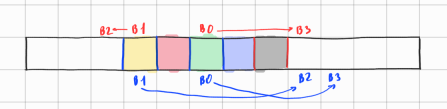
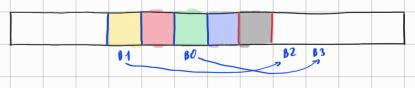
Caterpillar algo rus doc update

diff --git a/4. Практическая реализация flash-friendly Block DB в Phraser - Алгоритм Гусеницы.md b/4. Практическая реализация flash-friendly Block DB в Phraser - Алгоритм Гусеницы.md
@@ -130,57 +130,26 @@ append-only, никогда не перезаписывая данные in-plac
 ### 
 #### 3.1.2 CREATE / UPDATE / DELETE
 
-Концептуально, мы выполняем следующую последовательность действий: 
-1. Формируем *Обновленный блок*.
-2. Находим Block numbers `B1`, `B2` и `B3`.
-3. Получаем инкрементированную версию, **V1**.
-4. Читаем блок на позиции `B1`, без изменения контента обновляем ему версию до **V1**, и сохраняем его новую копию в `B2`.
-5. Получаем еще одну инкрементированную версию, **V2**.
-6. Сохраняем *Обновленный блок* на позицию `B3` с версией **V2**.
+Для модификации данных мы выполняем следующую последовательность действий: 
+1. Формируем *Обновленный блок*
+2. Если в БД недостаточно *Свободных блоков* (`UPDATE`/`DELETE` < 1 блок, `CREATE` < 2 блоков) 
+   - освобождаем Tombstone-блоки
+3. Находим Block numbers `B1`, `B2` и `B3` (см. `#3.3.1`)
+4. Получаем инкрементированную версию, **V1**
+5. Читаем блок на позиции `B1`, без изменения контента обновляем ему версию до **V1**, и сохраняем его новую копию в `B2` (`Throwback copy`)
+6. Если операция `CREATE` 
+   - освобождаем Tombstone-блоки еще раз, на случай ситуации `tombstoned block with 2 copies` (см. `#3.3.4`)
+   - Обновляем индексы для `B2` (см. `#3.3.3`)
+7. Получаем еще одну инкрементированную версию, **V2**
+8. Сохраняем *Обновленный блок* на позицию `B3` с версией **V2**
+   - Обновляем индексы для `B3` (см. `#3.3.3`)
 
-В приведенном выше описании, шаги 3 и 4 представляют собой то, что мы называем комплементарным копированием (Throwback copy).  
-
-### 
-#### 3.1.3 Вычисление `B1`, `B2` и `B3`
-
-- `B1` - Находим ближайший *Занятый блок* - *Справа* от *Последнего блока*
-- `B2` - Находим ближайший *Свободный блок* - *Слева* от *Последнего блока*
-- `B3` 
-  - В большинстве случаев за `B3` мы берем блок *Непосредственно справа* от *Последнего блока*,как показано на следующем рисунке  
-![Copy positions.png](Copy%20positions.png)
-
-  - За исключением ситуации, при которой вычисленный `B2` более близок справа к *Последнему блоку*, чем `B1`. 
-  Если использовать вычисленные номера блоков, то часть гусеницы поползет назад, что нежелательно с точки зрения 
-  равномерности распределения.  
-  Корректируем данную ситуацию следующим образом: 
-    - `B2` = блок *Непосредственно справа* от *Последнего блока*
-    - `B3` = блок *Непосредственно справа* от `B2`
-    - см. рисунок ниже, вычисленные "красные" позиции исправляются на "синие"   
-![Copy positions update.png](Copy%20positions%20update.png)
-
-
-- Throwback-копирование при *Полной БД*
-  - Если *БД полная*, то всегда `B1` = `B3`  
-![Copy when DB full.png](Copy%20when%20DB%20full.png)
-
-
-- Afterthought 1:
-  - Возможно, будет еще лучше для равномерного распределения, если изначально взглянуть на следующие блоки:
-    - `R1` - блок *Непосредственно справа* от *Последнего блока*
-    - `R2` - блок *Непосредственно справа* от `R1`
-  - и всегда, когда `R1` и `R2` свободны, использовать их как `B2` и `B3`, и fallback на текущий метод только в том 
-  случае, когда один или оба этих блока заняты.
-  - Тогда в большинстве случаев, за один проход гусеницы по блокам, каждый блок будет записан ровно один раз, что 
-  является идеальным случаем.
-
-- Afterthought 2:
-  - В ситуации, когда `B0` == `B1`, один и тот же блок копируется дважды.
-  - Метод возможно усовершенствовать, с целью чтобы и первая операция копирования приносила пользу.
 
 ### 3.2 Структуры данных в ОЗУ
 
 Для произведения действий, описанных в 3.1 нам нужно поддерживать структуры данных в ОЗУ для того, чтобы эффективно 
-находить BlockNumbers `B1`, `B2`, `B3`. 
+находить BlockNumbers `B1`, `B2`, `B3`.   
+
 Мы опираемся на следующие коллекции:
 - `rb_tree* occupiedBlockNumbers;`
   - Red-Black Tree, содержащая в себе номера *Занятых блоков*. Используется для нахождения `B1` и `B2`. При этом 
@@ -193,6 +162,7 @@ append-only, никогда не перезаписывая данные in-plac
 - `hashtable* tombstonedBlockIds; //key BlockId, value BlockId`
   - Индекс, содержащий BlockId-s с выставленным флагом Tombstoned. 
 
+
 ### 3.3 Детальное описание алгоритма
 
 Опишем Алгоритм Гусеницы более подробно, также включив в описание детали, относящиеся к манипуляции вышеупомянутыми индексами.  
@@ -201,22 +171,41 @@ append-only, никогда не перезаписывая данные in-plac
 
 
 ###
-#### 3.3.1 Использование структур данных в нахождении `B1`, `B2` и `B3`
-Добавим уточняющие комментарии к описанию из #3.1.3.
-
-- `B1` - Находим ближайший *Занятый блок* - *Справа* от *Последнего блока*
+#### 3.3.1 Нахождение `B1`, `B2` и `B3`
+- Для начала вычислим `B1` - ближайший *Занятый блок* - *Справа* от *Последнего блока*
   - > для этого используем `rb_tree* occupiedBlockNumbers` (O(log(N))
-- `B2` - Находим ближайший *Свободный блок* - *Слева* от *Последнего блока*
-  - > также находится при помощи `rb_tree* occupiedBlockNumbers` (O(N), что можно улучшить до O(log(N), добавив дерево свободных позиций)
-- `B3`
-  - В большинстве случаев за `B3` мы берем блок *Непосредственно справа* от *Последнего блока*.
-    - > вычисляется простым математическим действием
-  - За исключением ситуации, при которой вычисленный `B2` более близок справа к *Последнему блоку*, чем `B1`.
-    В этом случае часть гусеницы поползет назад, что нежелательно с точки зрения равномерности распределения.
-    Корректируем данную ситуацию следующим образом:
-    - `B2` = блок *Непосредственно справа* от *Последнего блока*.
-    - `B3` = блок *Непосредственно справа* от *Последнего блока*
-      - > Это также простое математическое действие
+- Определим два блока, `R1` и `R2` следующим образом:
+  - `R1` - блок *Непосредственно справа* от *Последнего блока*
+  - `R2` - блок *Непосредственно справа* от `R1`
+    - > вычисляется простым математическим действием `(LAST+1) % COUNT`, `(LAST+2) % COUNT`
+- *Happy path*: Если оба блока `R1` и `R2` являются *Свободными блоками*, устанавливаем значения `B2` и `B3` так:
+  - `B2` = `R1`
+  - `B3` = `R2`
+  - ![Copy positions update.png](Copy%20positions%20update.png)
+  - (при *Happy path*, за один проход гусеницы по массиву блоков, каждый блок будет записан ровно один раз, что
+    является идеальным сценарием)
+- Иначе, необходимо будет произвести дополнительные вычисления
+  - Найдем `B2 candidate` - ближайший *Свободный блок* - *Слева* от *Последнего блока*
+  - > ищем gap в `rb_tree* occupiedBlockNumbers` (O(N), что можно улучшить до O(log(N), добавив дерево свободных позиций)
+  - Затем производим проверку, не находится ли `B2 candidate` ближе *Справа* к *Последнему блоку*, чем `B1`
+    - (это соответствует расположению, когда в теле "гусеницы" нет промежутков в виде *Свободных блоков*)
+  - Если это так, определяем `B2` и `B3` как и при *"Happy Path"*
+    - `B2` = `R1`
+    - `B3` = `R2`
+  - Иначе, используем следующие значения
+    - `B2` = `B2 candidate`
+    - `B3` = `R1`
+    - ![Copy positions.png](Copy%20positions.png)
+
+
+- Throwback-копирование при *Полной БД*
+  - Подход не меняется. Характерно, что когда *БД полная*, то всегда верно `B1` == `B3`  
+    ![Copy when DB full.png](Copy%20when%20DB%20full.png)
+
+
+- Afterthought 2:
+  - В ситуации, когда `B0` == `B1`, один и тот же блок копируется дважды.
+  - Метод возможно усовершенствовать, с целью чтобы и первая операция копирования приносила пользу.
 
 ###
 #### 3.3.2 Процедура освобождения Tombstoned-блоков
@@ -260,27 +249,27 @@ Tombstoned == false.
 
 
 ###
-#### 3.3.4 Использование структур данных в `CREATE`, `UPDATE`, `DELETE`
+#### 3.3.4 Феномен `last tombstoned block with 2 copies`
 
-Добавим уточняющие комментарии к описанию из #3.1.2.
+Такая ситуация возникает, когда при полной БД мы удаляем один из блоков, т.е. даем ему Tombstone-статус.
+В этом случае предыдущая версия этого блока становится *Свободным блоком*, а новая его копия с обновленным
+Tombstoned-статусом, становится *Последним блоком*; таким образом, у него появляется 2 копии.
 
-- >Проверяем, есть ли в БД *Свободные блоки*, если их нет - освобождаем Tombstoned-блоки (#3.3.2).
-  >- Это необходимо сделать, т.к. для throwback-копирования нам нужен как минимум 1 *Свободный блок*.
+В этом случае, на шаге `#3.1.2-2` освободить этот Tombstone-блок не получится, т.к. у него 2 копии.
+Однако т.к. он является *Последним блоком*, и сам не может быть `B1`, то throwback-copy гарантированно перезапишет
+его копию, являющуюся единственным *Свободным блоком*. Как следствие, в БД остается его единственная копия.
+Тогда, на шаге `#3.1.2-6` мы можем освободить этот Tombstone-блок и таким образом enable создание нового блока в БД.
 
-- >Если мы пытаемся создать новый блок, проверяем состояние БД
-  >- Если *БД полна*, добавление нового блока невозможно.
-  >- Для добавления нового блока, нужно как минимум 2 *Свободных блока*, в один из которых будут записаны новые данные, 
-  > а другой необходим для функционирования throwback copy. Если В БД нет 2х *Свободных блоков* - 
-  > освобождаем Tombstoned-блоки (#3.3.2).
+Также возможен альтернативный, ленивый подход. При этом подходе мы не используем проверку наличия именно 
+*Cвободных блоков*, вместо этого убеждаясь, что у нас есть достаточно свободных или Tombstone-блоков.
+Затем мы делаем best effort по освобождению Tombstone-блоков, и если это не заканчивается успехом, позволяем БД после 
+добавления нового блока прийти в состояние без *свободных блоков*, но с Tombstone-блоком.  
+Тогда следующая операция модификации данных освободит этот Tombstone-блок на шаге `#3.1.2-2`.  
+Однако, использование данного подхода означало бы ослабление контроля за целостностью БД, и теоретическую возможность пропустить
+иные виды неконсистентности, поэтому предпочтение было отдано явному освобождению Tombstone-блока после throwback-copy, 
+на шаге `#3.1.2-6`.
 
-1. Формируем *Обновленный блок*.
-2. Находим Block numbers `B1`, `B2` и `B3`.
-3. Получаем инкрементированную версию, **V1**.
-4. Читаем блок на позиции `B1`, без изменения контента обновляем ему версию до **V1**, и сохраняем его новую копию в `B2`.
-- > Обновляем индексы для B2 (#3.3.3)
-5. Получаем еще одну инкрементированную версию, **V2**.
-6. Сохраняем *Обновленный блок* на позицию `B3` с версией **V2**.
-- > Обновляем индексы для B3 (#3.3.3)
+![TS block with 2 copies.png](TS%20block%20with%202%20copies.png)
 
 
 ## 4. Визуализация Caterpillar Algorithm
@@ -288,6 +277,7 @@ Tombstoned == false.
 > *"Caterpillars move in a wavelike motion, from back to front"*  
 > \- **https://blog.entomologist.net/the-movement-of-the-caterpillars.html**
 
+!! TODO: outdated
 Название "Алгоритм гусеницы" исходит от характер перемещений блоков, который по прошествии некоторого времени 
 приобретает вид, сходный с перемещением гусеницы.  
 Это можно заметить, визуализируя последовательные итерации алгоритма.
